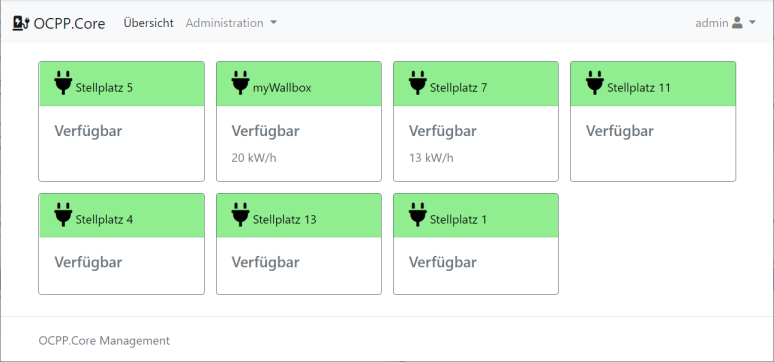
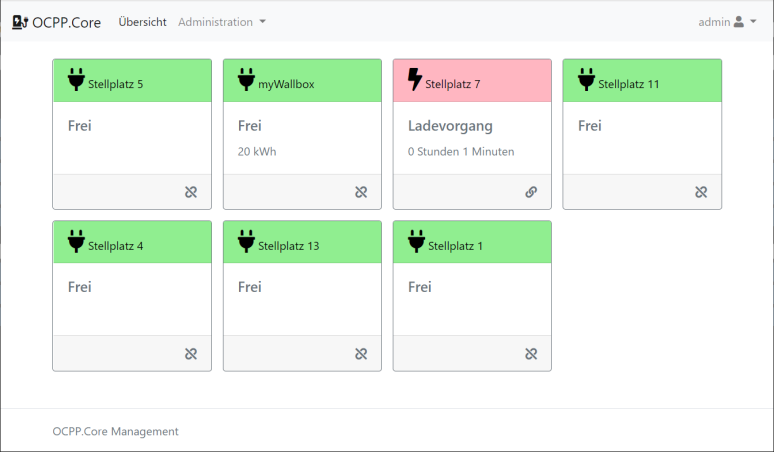
Show online/offline status

diff --git a/OCPP.Core.Management/Controllers/HomeController.Index.cs b/OCPP.Core.Management/Controllers/HomeController.Index.cs
@@ -160,6 +160,9 @@ namespace OCPP.Core.Management.Controllers
                             {
                                 if (cpStatus.Id.Equals(cpovm.ChargePointId, StringComparison.InvariantCultureIgnoreCase))
                                 {
+                                    // ChargePoint in statuslist => online
+                                    cpovm.Online = true;
+
                                     if (cpStatus.EVSE1Status != ConnectorStatus.Undefined)
                                     {
                                         // TODO: display multiple connectors

diff --git a/OCPP.Core.Management/Models/ChargePointsOverviewViewModel.cs b/OCPP.Core.Management/Models/ChargePointsOverviewViewModel.cs
@@ -45,5 +45,7 @@ namespace OCPP.Core.Management.Models
         public DateTime? StopTime { get; set; }
 
         public ConnectorStatus ConnectorStatus { get; set; }
+
+        public bool Online { get; set; }
     }
 }
